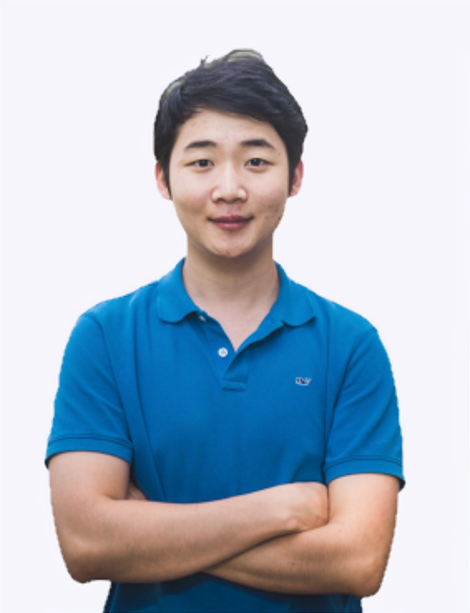
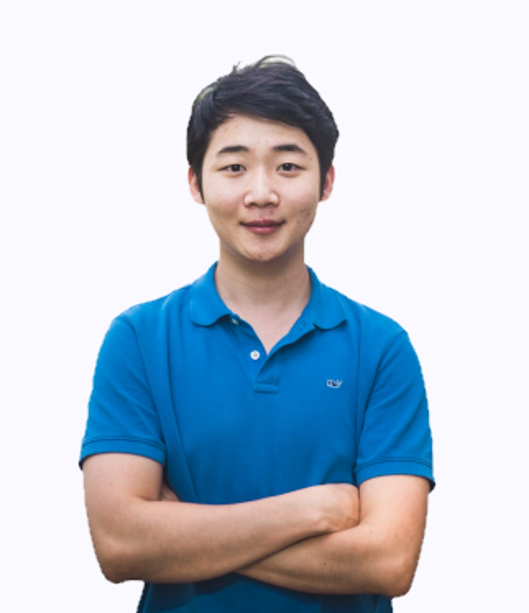
16

diff --git a/index.html b/index.html
@@ -2,7 +2,7 @@
 	<html lang="en" class="no-js">
 	<head>
 		<!-- Mobile Specific Meta -->
-		<meta name="viewport" content="width=device-width, initial-scale=1, shrink-to-fit=yes">
+		<meta name="viewport" content="width=device-width, initial-scale=1, shrink-to-fit=no">
 		<!-- Favicon-->
 		<link rel="shortcut icon" href="img/fav.png">
 		<!-- Author Meta -->
@@ -81,7 +81,7 @@
 							<a href="#" class="primary-btn text-uppercase">discover now</a>
 						</div>
 						<div class="col-lg-6 col-md-6 banner-right d-flex align-self-end">
-							<img class="img-fluid" src="img/intro_pic2.png" alt="">
+							<img class="img-fluid" src="img/intro_pic.png" alt="">
 						</div>
 					</div>
 				</div>					
